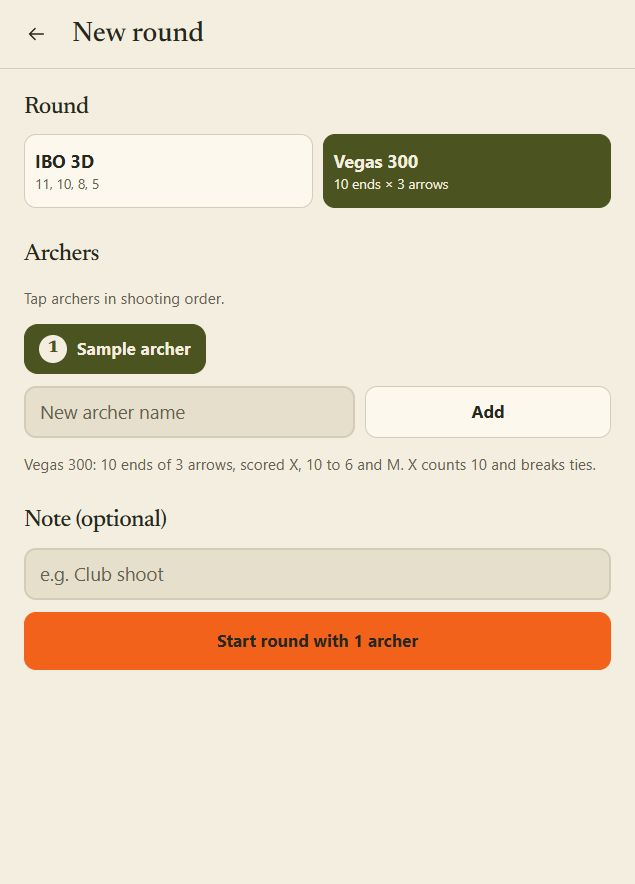
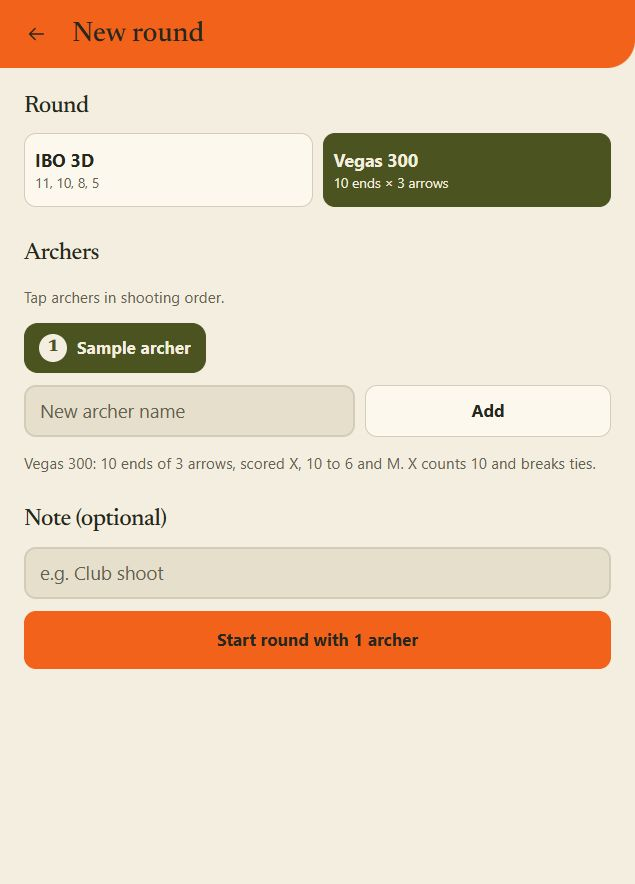
Retain orange action surface in New Round header (#27)

diff --git a/browser-tests/transitions.spec.js b/browser-tests/transitions.spec.js
@@ -67,6 +67,7 @@ test('Home new-round entry and setup Back animate without creating rounds; reduc
   await expect(page.locator('#app')).toHaveAttribute('data-page','new');
   await expect(page.locator('.surface-transition')).toHaveCount(1);
   await expect(page.locator('main')).toHaveCSS('opacity','1');
+  await expect(page.locator('.top')).toHaveCSS('background-color','rgb(242, 98, 26)');
   await page.getByRole('button',{name:'Back',exact:true}).click();
   await expect(page.locator('#app')).toHaveAttribute('data-page','home');
   await expect(page.locator('.surface-transition')).toHaveCount(1);
@@ -80,4 +81,5 @@ test('Home new-round entry and setup Back animate without creating rounds; reduc
   await expect(page.locator('.surface-transition')).toHaveCount(0);
   await page.getByRole('textbox',{name:'Round note (optional)',exact:true}).fill('Setup remains editable');
   await expect(page.getByRole('textbox',{name:'Round note (optional)',exact:true})).toHaveValue('Setup remains editable');
+  await expect(page.locator('.top')).toHaveCSS('background-color','rgb(242, 98, 26)');
 });

diff --git a/ibo-scorer/velocity-base.css b/ibo-scorer/velocity-base.css
@@ -48,6 +48,10 @@ button[aria-busy=true] { cursor: progress; }
 .top { border-bottom: 1px solid var(--rule); }
 .top h1 { white-space: normal; font-weight: 500; }
 .top .back { border: 0; background: transparent; }
+/* The Home action arrives here as a persistent orange setup surface. */
+#app[data-page='new'] > .top { background: var(--arrow); color: var(--ink); border-bottom: 0; border-radius: 0 0 28px 0; }
+#app[data-page='new'] > .top .back { color: var(--ink); }
+#app[data-page='new'] > .top :focus-visible { outline-color: var(--ink); }
 .back { display: grid; place-items: center; }
 .back svg, .undo svg { width: 22px; height: 22px; fill: none; stroke: currentColor; stroke-width: 1.6; stroke-linecap: round; stroke-linejoin: round; flex: none; }
 .back svg { transform: rotate(180deg); }

diff --git a/DESIGN.md b/DESIGN.md
@@ -186,7 +186,7 @@ Scoring has an olive header, wrap-safe round progress and running result, a hori
 
 New-round setup initially selects the first active archer in the displayed alphabetical list. Archers can be deselected, replaced or added to the group; form updates preserve those deliberate choices. With no active archers, setup waits for one to be added.
 
-Home's Start new round action uses Surface Continuity to become the setup header over 520ms, with the form appearing below it. Entering scoring from a Home resume card or the completed setup uses the same transition: the source control becomes the olive scoring header. Returning Home from setup or scoring reverses the surface over 420ms and restores the originating action's scroll position when available. Routing and saving remain immediate; new input, another render, resizing, hiding the app or a changed motion preference cancels the visual layer. Reduced motion uses 120ms opacity feedback without spatial movement. Direct scoring links and routine score updates do not run navigation choreography.
+Home's Start new round action uses Surface Continuity to become the setup header over 520ms. That header retains the action's orange fill with ink text and Back control, and the cream form appears below it. Entering scoring from a Home resume card or the completed setup uses the same transition: the source control becomes the olive scoring header. Returning Home from setup or scoring reverses the surface over 420ms and restores the originating action's scroll position when available. Routing and saving remain immediate; new input, another render, resizing, hiding the app or a changed motion preference cancels the visual layer. Reduced motion uses 120ms opacity feedback without spatial movement. Direct scoring links and routine score updates do not run navigation choreography.
 
 History, archer records and import previews use open rows with fine rules. Analytics filters wrap and data graphics keep their labels and legends. Backup, restore and import retain explicit file actions and confirmation/recovery dialogs. Dialogs scroll independently, trap keyboard focus, support Escape cancellation and restore the initiating control.
 

diff --git a/.impeccable/review/surface-continuity/README.md b/.impeccable/review/surface-continuity/README.md
@@ -5,7 +5,7 @@ Implements the user's approved motion study from `codex/prototype-surface-contin
 - `resume-phone.jpg`: the real Home card travelling toward the scoring header, captured during motion in the 390×844 browser viewport.
 - `scoring-phone.jpg`: settled real Vegas scoring at phone width.
 - `scoring-wide.jpg`: settled scoring at the default desktop width.
-- `setup.jpg`: settled real setup after Home's Start new round entrance. Setup-to-Home Back also uses the reverse surface.
+- `setup.jpg`: settled real setup after Home's Start new round entrance. The button becomes a persistent orange header with ink title/Back control; the form remains cream. Setup-to-Home Back also uses the reverse surface.
 
 These captures use a separate localhost origin with a clearly named Sample archer; they do not change scores in the user's existing preview. Browser screenshots establish layout and visual continuity, not physical Pixel performance.
 
